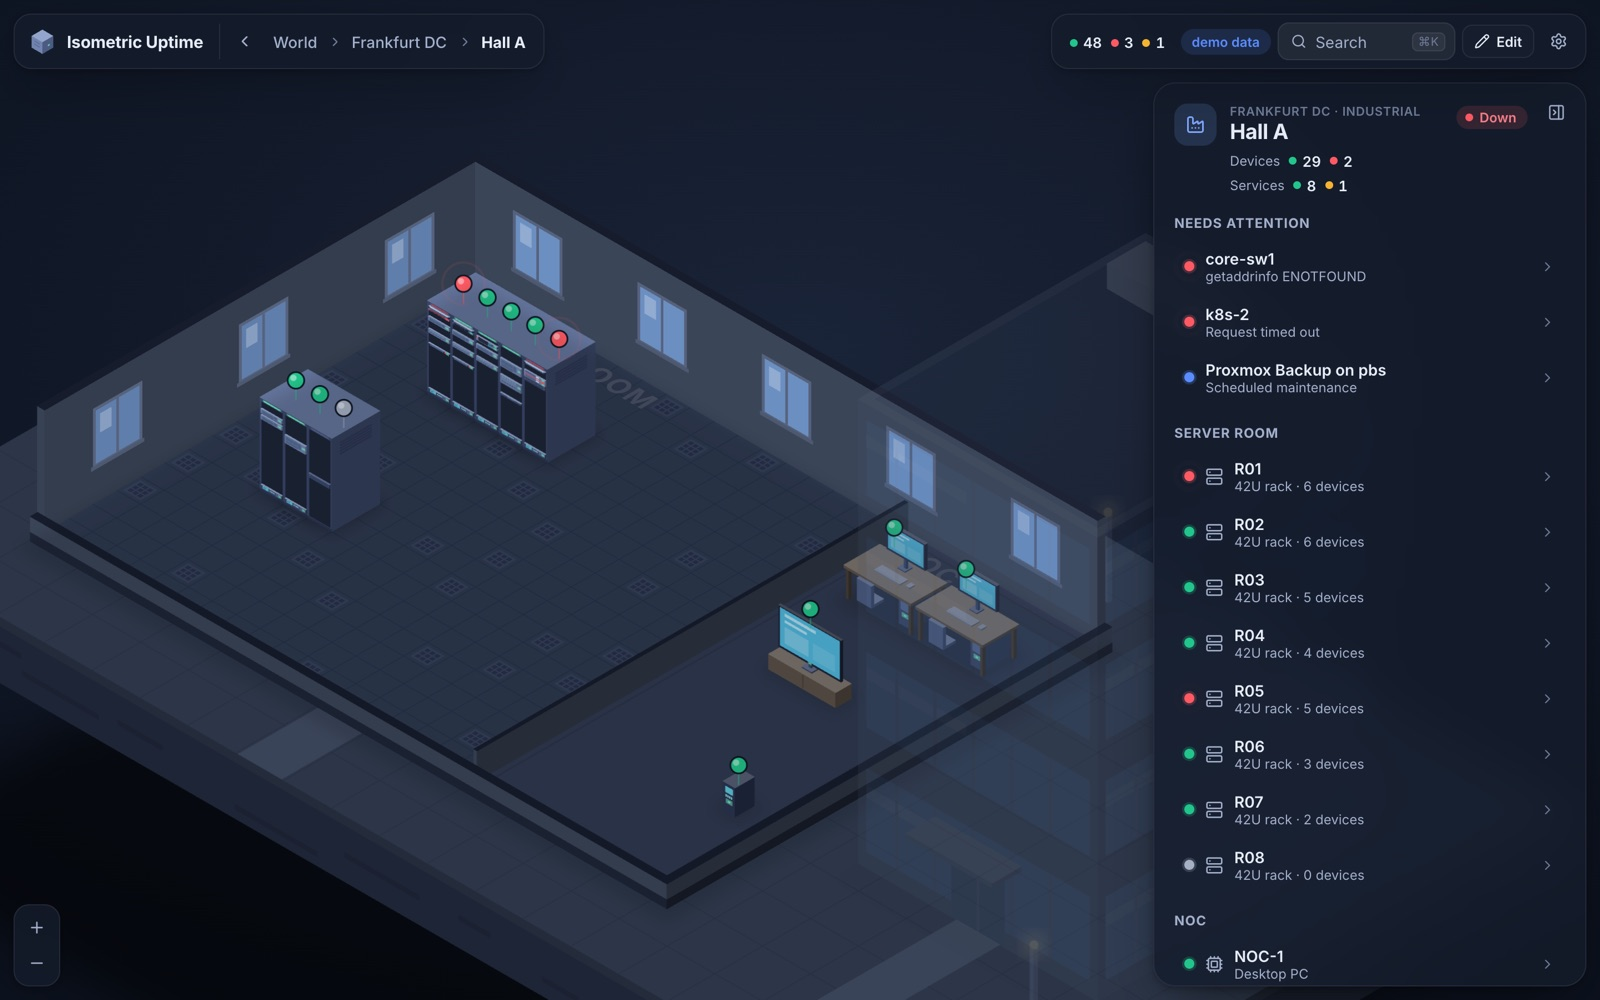
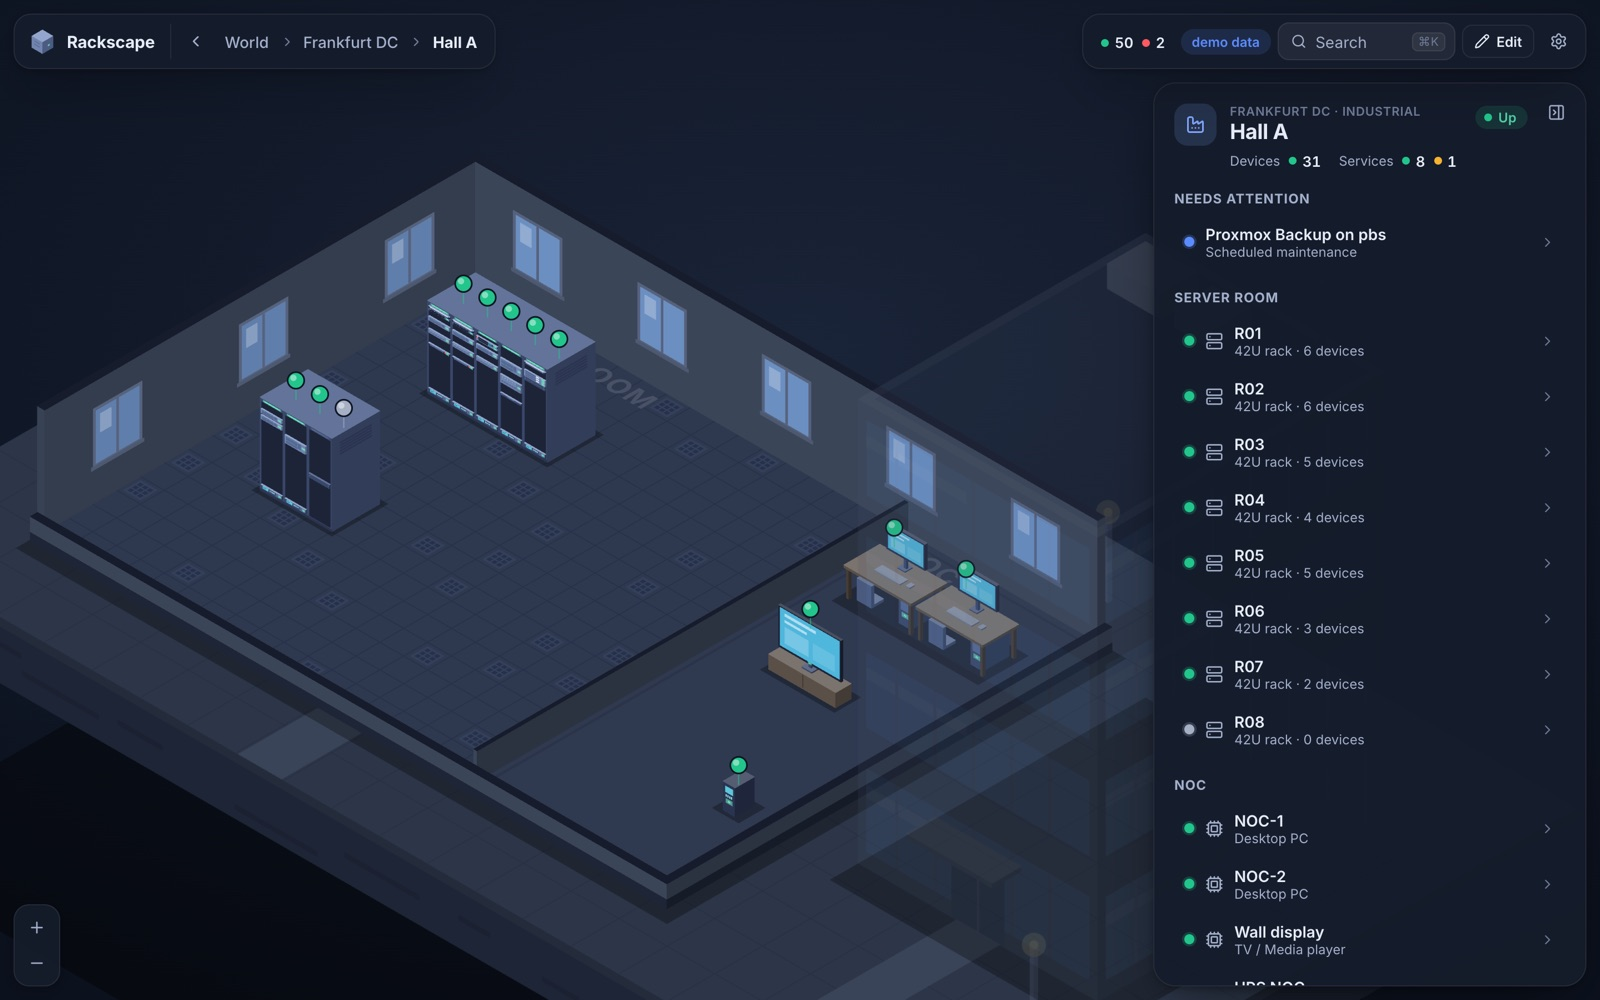
Rename to Rackscape
- App title, logo text, README, package name, Docker image
  (ghcr.io/yniverz/rackscape) and compose service/container names
- The database file is renamed automatically on first start
  (isometric-uptime.db → rackscape.db)
- The compose volume keeps its old name so existing installs keep their
  data; session cookie and browser settings keep their internal keys
- Fresh screenshots

diff --git a/web/src/ui/dialogs.tsx b/web/src/ui/dialogs.tsx
@@ -95,7 +95,7 @@ export function LoginScreen() {
           <polygon points="28,10 16,17 16,30 28,23" fill="#4B5B82" />
           <polygon points="22,20 24,18.8 24,20.3 22,21.5" fill="#6FF0C4" />
         </svg>
-        <h1>Isometric Uptime</h1>
+        <h1>Rackscape</h1>
         <p className="muted">Log in to see your infrastructure.</p>
         <LoginForm u={u} p={p} setU={setU} setP={setP} err={err} busy={busy} onSubmit={async () => {
           setBusy(true);
@@ -192,7 +192,7 @@ export function SettingsDialog() {
             <div className="muted small">Back up or move your world as JSON.</div>
           </div>
           <div className="btn-row">
-            <button className="btn sm" disabled={!world} onClick={() => world && download(`isometric-uptime-${new Date().toISOString().slice(0, 10)}.json`, JSON.stringify(world, null, 2))}>
+            <button className="btn sm" disabled={!world} onClick={() => world && download(`rackscape-${new Date().toISOString().slice(0, 10)}.json`, JSON.stringify(world, null, 2))}>
               <Download size={14} /> Export
             </button>
             <button className="btn sm" onClick={() => needEdit() && fileRef.current?.click()}>
@@ -270,7 +270,7 @@ export function SettingsDialog() {
           </button>
         </div>
         <div className="about muted small">
-          Isometric Uptime {session?.version} · {source?.mode === 'demo' ? 'demo mode' : `Uptime Kuma ${source?.state ?? ''}`}
+          Rackscape {session?.version} · {source?.mode === 'demo' ? 'demo mode' : `Uptime Kuma ${source?.state ?? ''}`}
           {session?.kumaUrl && (
             <>
               {' · '}

diff --git a/server/src/db.ts b/server/src/db.ts
@@ -1,9 +1,20 @@
+import fs from 'node:fs';
 import path from 'node:path';
 import { DatabaseSync } from 'node:sqlite';
 import { config } from './config.js';
 import type { EventDTO, Status } from '../../shared/status.js';
 
-const db = new DatabaseSync(path.join(config.dataDir, 'isometric-uptime.db'));
+const DB_FILE = path.join(config.dataDir, 'rackscape.db');
+// Installations from before the rename used a different file name.
+const LEGACY_DB_FILE = path.join(config.dataDir, 'isometric-uptime.db');
+if (!fs.existsSync(DB_FILE) && fs.existsSync(LEGACY_DB_FILE)) {
+  for (const suffix of ['', '-wal', '-shm']) {
+    if (fs.existsSync(LEGACY_DB_FILE + suffix)) fs.renameSync(LEGACY_DB_FILE + suffix, DB_FILE + suffix);
+  }
+  console.log('[boot] migrated isometric-uptime.db → rackscape.db');
+}
+
+const db = new DatabaseSync(DB_FILE);
 db.exec(`
   PRAGMA journal_mode = WAL;
   CREATE TABLE IF NOT EXISTS world (

diff --git a/web/src/App.tsx b/web/src/App.tsx
@@ -47,7 +47,7 @@ function useHealthChrome() {
     if (!summary) return;
     const [rollup, downStr] = summary.split('|');
     const down = Number(downStr);
-    document.title = down ? `(${down} down) Isometric Uptime` : 'Isometric Uptime';
+    document.title = down ? `(${down} down) Rackscape` : 'Rackscape';
     const color = STATUS_COLORS[rollup] ?? '#9aa9c0';
     const svg = `<svg xmlns="http://www.w3.org/2000/svg" viewBox="0 0 64 64"><polygon points="32,6 56,20 32,34 8,20" fill="#93A5CC"/><polygon points="8,20 32,34 32,60 8,46" fill="#7084AE"/><polygon points="56,20 32,34 32,60 56,46" fill="#4B5B82"/><circle cx="48" cy="48" r="13" fill="${color}" stroke="white" stroke-width="4"/></svg>`;
     const link = document.getElementById('favicon') as HTMLLinkElement | null;

diff --git a/server/src/index.ts b/server/src/index.ts
@@ -251,7 +251,7 @@ pruneEvents();
 setInterval(pruneEvents, 24 * 3600_000).unref();
 
 await app.listen({ port: config.port, host: config.host });
-console.log(`[boot] isometric-uptime ${config.version} listening on http://${config.host}:${config.port}`);
+console.log(`[boot] rackscape ${config.version} listening on http://${config.host}:${config.port}`);
 if (config.auth.enabled && config.auth.generatedPassword) {
   console.log(`[boot] no ADMIN_PASSWORD set – generated one. Login: ${config.auth.username} / ${config.auth.password}`);
   console.log(`[boot] (stored in ${path.join(config.dataDir, 'admin-password.txt')})`);

diff --git a/web/src/ui/chrome.tsx b/web/src/ui/chrome.tsx
@@ -103,9 +103,9 @@ export function TopBar() {
   return (
     <header className="topbar">
       <div className="tb-left glass">
-        <button className="brand" onClick={() => navigate([])} title="Isometric Uptime">
+        <button className="brand" onClick={() => navigate([])} title="Rackscape">
           <Logo />
-          <span className="brand-name">Isometric Uptime</span>
+          <span className="brand-name">Rackscape</span>
         </button>
         <Breadcrumbs />
       </div>

diff --git a/web/index.html b/web/index.html
@@ -3,7 +3,7 @@
   <head>
     <meta charset="UTF-8" />
     <meta name="viewport" content="width=device-width, initial-scale=1, viewport-fit=cover" />
-    <title>Isometric Uptime</title>
+    <title>Rackscape</title>
     <link rel="icon" type="image/svg+xml" href="/favicon.svg" id="favicon" />
     <meta name="theme-color" content="#D9E2EC" />
     <link rel="preconnect" href="https://fonts.googleapis.com" />

diff --git a/README.md b/README.md
@@ -1,8 +1,8 @@
 [![License: NCPUL](https://img.shields.io/badge/license-NCPUL-blue.svg)](./LICENSE.md)
 
-# Isometric Uptime
+# Rackscape
 
-An explorable, isometric world of your infrastructure – sites, buildings, rooms, racks, servers, VMs and services – with live status from **Uptime Kuma**.
+**Your racks as a landscape.** An explorable, isometric world of your infrastructure – sites, buildings, rooms, racks, servers, VMs and services – with live status from **Uptime Kuma**.
 
 Instead of a list of monitors you get one continuous world: click a site and the camera flies onto its island, click a building and the roof lifts off, click a rack and it fills the screen, click a server and it slides out like a drawer while its VMs and services float above it as a hologram. Every LED, pin and beacon reflects the live state of your Kuma monitors.
 
@@ -33,7 +33,7 @@ Instead of a list of monitors you get one continuous world: click a site and the
 ## Deploy with Portainer
 
 1. **Stacks → Add stack → Repository**
-2. Repository URL: `https://github.com/yniverz/isometric-uptime`, compose path: `docker-compose.yml`
+2. Repository URL: `https://github.com/yniverz/rackscape`, compose path: `docker-compose.yml`
 3. Add environment variables (at least):
 
    | Variable | Example | |
@@ -45,7 +45,7 @@ Instead of a list of monitors you get one continuous world: click a site and the
 
 4. Deploy, open `http://<host>:3000`, click **Edit** and start building your world.
 
-The stack uses the prebuilt image `ghcr.io/yniverz/isometric-uptime:latest` (amd64 and arm64), which GitHub Actions publishes on every push. To update, use **Pull and redeploy** with **Re-pull image** enabled – it only downloads the new image, so it takes seconds.
+The stack uses the prebuilt image `ghcr.io/yniverz/rackscape:latest` (amd64 and arm64), which GitHub Actions publishes on every push. To update, use **Pull and redeploy** with **Re-pull image** enabled – it only downloads the new image, so it takes seconds.
 
 To build from source on your own server instead, replace the `image:` line in `docker-compose.yml` with `build: .` and `pull_policy: build` (this takes a few minutes per deploy).
 
@@ -54,11 +54,11 @@ To build from source on your own server instead, replace the `image:` line in `d
 ### Plain Docker
 
 ```bash
-git clone https://github.com/yniverz/isometric-uptime.git
+git clone https://github.com/yniverz/rackscape.git
 ```
 
 ```bash
-cd isometric-uptime && KUMA_URL=http://192.168.1.10:3001 KUMA_USERNAME=admin KUMA_PASSWORD=secret ADMIN_PASSWORD=change-me docker compose up -d
+cd rackscape && KUMA_URL=http://192.168.1.10:3001 KUMA_USERNAME=admin KUMA_PASSWORD=secret ADMIN_PASSWORD=change-me docker compose up -d
 ```
 
 ## Configuration
@@ -82,7 +82,7 @@ cd isometric-uptime && KUMA_URL=http://192.168.1.10:3001 KUMA_USERNAME=admin KUM
 
 ### How the Kuma connection works
 
-Uptime Kuma has no full REST API, so Isometric Uptime connects like Kuma's own web UI: over Socket.IO, as a logged-in user. It receives the monitor list and live heartbeats in real time and asks Kuma for history when you open a detail panel. Both Kuma 1.x/2.0–2.5 (socket login) and the newer better-auth based versions (cookie session) are supported and detected automatically. Consider creating a dedicated Kuma user. The connection is read-only; nothing in Kuma is changed.
+Uptime Kuma has no full REST API, so Rackscape connects like Kuma's own web UI: over Socket.IO, as a logged-in user. It receives the monitor list and live heartbeats in real time and asks Kuma for history when you open a detail panel. Both Kuma 1.x/2.0–2.5 (socket login) and the newer better-auth based versions (cookie session) are supported and detected automatically. Consider creating a dedicated Kuma user. The connection is read-only; nothing in Kuma is changed.
 
 ### Security notes
 
